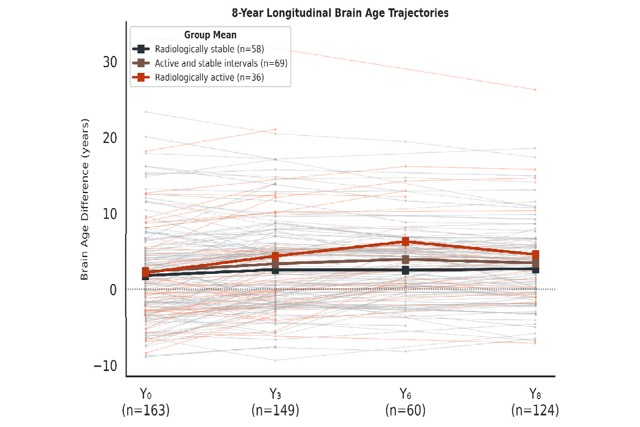
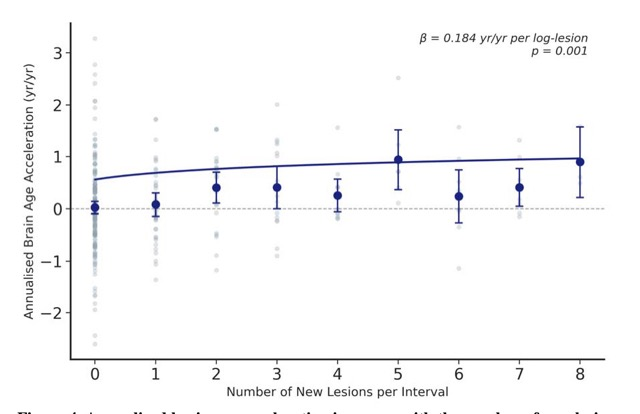
Swap brain aging preprint thumbnail to Figure 4 (dose-response)

diff --git a/index.html b/index.html
@@ -207,7 +207,7 @@
           </tr>
 
           <tr class="paper">
-            <td class="paper-media"><img src="assets/Brain_aging.jpg" alt="Brain Aging Trajectories" class="paper-img"></td>
+            <td class="paper-media"><img src="assets/Brain_aging.jpg" alt="Brain Aging Dose-Response" class="paper-img"></td>
             <td class="paper-info">
               <a class="papertitle" href="https://www.medrxiv.org/content/10.64898/2026.08.27.26361556v1" target="_blank" rel="noopener">New Lesion Formation Is Associated With Accelerated Brain Aging in Multiple Sclerosis</a><br>
               La Rosa F, Dos Santos Silva J, Dereskewicz E, Onyemeh K, <strong>Ayci B</strong>, Sizer E, Shashkova E, Garcia N, Graney R, Levy S, Katz Sand I, Sumowski JF, Beck ES<br>
